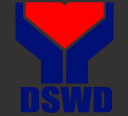
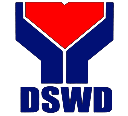
fix(polish): browser check fixes for login, calendar, footer and focus

diff --git a/client/src/features/students/components/StudentExtraSections.tsx b/client/src/features/students/components/StudentExtraSections.tsx
@@ -214,7 +214,7 @@ export function BirthRegistered({
 }
 
 const FAMILY_COLUMNS =
-  "xl:grid-cols-[1.5rem_1.6fr_1fr_1fr_0.7fr_1fr_1.1fr_1fr_1fr]";
+  "2xl:grid-cols-[1.5rem_1.5fr_1.15fr_1fr_0.85fr_1fr_1.1fr_1fr_1fr]";
 
 export function FamilyTable({
   draft,
@@ -246,10 +246,10 @@ export function FamilyTable({
   const textColumns = [["relationship", "c. Relationship"]] as const;
 
   return (
-    <div className="flex flex-col gap-3 xl:gap-2">
+    <div className="flex flex-col gap-3 2xl:gap-2">
       <div
         aria-hidden="true"
-        className={`hidden gap-2 border-b border-border-subtle pb-2 text-12 xl:grid ${FAMILY_COLUMNS}`}
+        className={`hidden gap-2 border-b border-border-subtle pb-2 text-12 2xl:grid ${FAMILY_COLUMNS}`}
       >
         {headers.map((header) => (
           <span key={header}>{header}</span>
@@ -260,13 +260,13 @@ export function FamilyTable({
         return (
           <fieldset
             key={number}
-            className={`grid gap-2 rounded-control border border-border-subtle p-3 sm:grid-cols-2 xl:items-center xl:rounded-none xl:border-0 xl:p-0 ${FAMILY_COLUMNS}`}
+            className={`grid gap-2 rounded-control border border-border-subtle p-3 sm:grid-cols-2 xl:grid-cols-4 2xl:items-center 2xl:rounded-none 2xl:border-0 2xl:p-0 ${FAMILY_COLUMNS}`}
           >
             <legend className="sr-only">Family member {number}</legend>
             <span aria-hidden="true" className="text-13 font-medium">
               {number}.
             </span>
-            <FormField label="11a. Full Name" hideLabelFrom="xl">
+            <FormField label="11a. Full Name" hideLabelFrom="2xl">
               {(field) => (
                 <Input
                   {...field}
@@ -277,7 +277,7 @@ export function FamilyTable({
                 />
               )}
             </FormField>
-            <FormField label="b. Birthday" hideLabelFrom="xl">
+            <FormField label="b. Birthday" hideLabelFrom="2xl">
               {(field) => (
                 <DateInput
                   {...field}
@@ -289,7 +289,7 @@ export function FamilyTable({
               )}
             </FormField>
             {textColumns.map(([key, label]) => (
-              <FormField key={key} label={label} hideLabelFrom="xl">
+              <FormField key={key} label={label} hideLabelFrom="2xl">
                 {(field) => (
                   <Input
                     {...field}
@@ -301,7 +301,7 @@ export function FamilyTable({
                 )}
               </FormField>
             ))}
-            <FormField label="d. Sex" hideLabelFrom="xl">
+            <FormField label="d. Sex" hideLabelFrom="2xl">
               {(field) => (
                 <Select
                   {...field}
@@ -323,7 +323,7 @@ export function FamilyTable({
                 ["occupation", "g. Occupation"],
               ] as const
             ).map(([key, label]) => (
-              <FormField key={key} label={label} hideLabelFrom="xl">
+              <FormField key={key} label={label} hideLabelFrom="2xl">
                 {(field) => (
                   <Input
                     {...field}
@@ -335,7 +335,7 @@ export function FamilyTable({
                 )}
               </FormField>
             ))}
-            <FormField label="h. Monthly Income" hideLabelFrom="xl">
+            <FormField label="h. Monthly Income" hideLabelFrom="2xl">
               {(field) => (
                 <Input
                   {...field}

diff --git a/client/src/app/layouts/AppShell.tsx b/client/src/app/layouts/AppShell.tsx
@@ -55,7 +55,7 @@ function SidebarBrand({ role }: { role: Role }) {
     );
   }
   return (
-    <div className="flex shrink-0 items-center gap-4 border-b border-primary px-6 py-5 text-nav-text">
+    <div className="flex shrink-0 items-center gap-3 border-b border-primary py-5 pr-1 pl-6 text-nav-text">
       <img
         src={emblem}
         alt={EMBLEM_ALT}
@@ -65,15 +65,19 @@ function SidebarBrand({ role }: { role: Role }) {
         <p className="text-20 tracking-label">
           <span className="text-primary">RIC</span>Portal
         </p>
-        <p className="text-12 tracking-label">Rural Improvement Club</p>
-        <p className="text-12 tracking-label">Libmanan, Camarines Sur</p>
+        <p className="text-12 tracking-label whitespace-nowrap">
+          Rural Improvement Club
+        </p>
+        <p className="text-12 tracking-label whitespace-nowrap">
+          Libmanan, Camarines Sur
+        </p>
       </div>
     </div>
   );
 }
 
 function itemClass(role: Role, isActive: boolean): string {
-  const base = `flex h-[53px] shrink-0 items-center gap-3 rounded-card px-3 text-left tracking-label ${NAV_FOCUS}`;
+  const base = `flex h-[53px] shrink-0 items-center gap-3 rounded-card px-3 text-left tracking-label whitespace-nowrap ${NAV_FOCUS}`;
   const weight =
     role === "ADMIN" ? "text-15 font-medium" : "text-15 font-light";
   if (!isActive) {
@@ -81,7 +85,7 @@ function itemClass(role: Role, isActive: boolean): string {
   }
   return role === "ADMIN"
     ? `${base} ${weight} bg-primary text-primary-contrast`
-    : `${base} ${weight} border-l-8 border-primary bg-nav-selected text-nav-selected-text`;
+    : `${base} ${weight} border-l-8 border-primary bg-nav-selected pl-1 text-nav-selected-text`;
 }
 
 function SidebarContent({

diff --git a/client/src/components/ui/overlays.test.tsx b/client/src/components/ui/overlays.test.tsx
@@ -16,6 +16,30 @@ describe.each([
   ["Modal", Modal],
   ["Drawer", Drawer],
 ] as const)("%s", (_name, Overlay) => {
+  // Most screens remove the overlay instead of closing it, so the browser never
+  // restores focus by itself (found in a real browser, polish F6).
+  it("gives focus back to the opener when it is removed while open", () => {
+    function Screen({ showing }: { showing: boolean }) {
+      return (
+        <>
+          <button type="button">Opener</button>
+          {showing && (
+            <Overlay open onClose={() => undefined} title="Add a student">
+              <button type="button">Inside</button>
+            </Overlay>
+          )}
+        </>
+      );
+    }
+    const { rerender } = render(<Screen showing={false} />);
+    const opener = screen.getByRole("button", { name: "Opener" });
+    opener.focus();
+    rerender(<Screen showing />);
+    screen.getByRole("button", { name: "Inside" }).focus();
+    rerender(<Screen showing={false} />);
+    expect(document.activeElement).toBe(opener);
+  });
+
   it("is a native dialog that opens and closes with its prop", () => {
     const { container, rerender } = render(
       <Overlay open={false} onClose={() => undefined} title="Add a student">

diff --git a/client/src/components/ui/useNativeDialog.ts b/client/src/components/ui/useNativeDialog.ts
@@ -5,6 +5,7 @@ import { useEffect, useRef } from "react";
 // event; it is prevented so React state stays in control, and calls onClose.
 export function useNativeDialog(open: boolean, onClose: () => void) {
   const ref = useRef<HTMLDialogElement>(null);
+  const opener = useRef<HTMLElement | null>(null);
 
   useEffect(() => {
     const dialog = ref.current;
@@ -12,11 +13,26 @@ export function useNativeDialog(open: boolean, onClose: () => void) {
       return;
     }
     if (open && !dialog.hasAttribute("open")) {
+      opener.current =
+        document.activeElement instanceof HTMLElement
+          ? document.activeElement
+          : null;
       dialog.showModal();
     } else if (!open && dialog.hasAttribute("open")) {
       dialog.close();
     }
   }, [open]);
+
+  // Most screens remove the dialog instead of closing it. The browser restores
+  // focus only on close(), so a dialog removed while open has to do it here.
+  useEffect(() => {
+    const dialog = ref.current;
+    return () => {
+      if (dialog?.hasAttribute("open") === true) {
+        opener.current?.focus();
+      }
+    };
+  }, []);
 
   useEffect(() => {
     const dialog = ref.current;

diff --git a/client/src/components/ui/FormField.tsx b/client/src/components/ui/FormField.tsx
@@ -15,8 +15,8 @@ type FormFieldProps = {
   required?: boolean;
   // Keeps the label for screen readers when the row already shows its meaning.
   hideLabel?: boolean;
-  // The same, from 1280 px: a table row with a header above it (cards before that).
-  hideLabelFrom?: "xl";
+  // The same, from 1536 px: a table row with a header above it (cards before that).
+  hideLabelFrom?: "2xl";
   children: (field: FieldControlProps) => ReactNode;
 };
 
@@ -60,7 +60,7 @@ export function FormField({
         className={
           hideLabel
             ? "sr-only"
-            : `text-15 font-medium text-text ${hideLabelFrom === "xl" ? "xl:sr-only" : ""}`
+            : `text-15 font-medium text-text ${hideLabelFrom === "2xl" ? "2xl:sr-only" : ""}`
         }
       >
         {label}

diff --git a/client/src/styles/index.css b/client/src/styles/index.css
@@ -36,7 +36,7 @@
   color: var(--color-text);
 }
 
-.ric-calendar .fc-day-today {
+.ric-calendar .fc .fc-daygrid-day.fc-day-today {
   background-color: var(--ric-calendar-fill);
 }
 
@@ -46,15 +46,22 @@
 }
 
 /* The whole cell is the button, so a day is easy to tap. */
-.ric-calendar .fc-daygrid-day-top {
+.ric-calendar .fc .fc-daygrid-day-top {
   position: static;
   display: block;
+}
+
+.ric-calendar .fc .fc-daygrid-day-number {
+  position: static;
+  padding: 0;
 }
 
 .ric-day-button {
   position: absolute;
   inset: 0;
-  display: block;
+  display: flex;
+  align-items: flex-start;
+  justify-content: flex-start;
   padding: 2px 4px;
   text-align: left;
   color: var(--color-text);

diff --git a/client/src/components/ui/Button.tsx b/client/src/components/ui/Button.tsx
@@ -123,7 +123,7 @@ export function IconButton({
       <span
         data-icon-label
         aria-hidden="true"
-        className="pointer-events-none invisible absolute top-full left-1/2 -translate-x-1/2 bg-surface px-1 text-15 tracking-label whitespace-nowrap text-text group-hover:visible group-focus-visible:visible"
+        className="pointer-events-none invisible absolute max-md:hidden top-full left-1/2 -translate-x-1/2 bg-surface px-1 text-15 tracking-label whitespace-nowrap text-text group-hover:visible group-focus-visible:visible"
       >
         {label}
       </span>

diff --git a/client/src/components/ui/Button.test.tsx b/client/src/components/ui/Button.test.tsx
@@ -141,6 +141,8 @@ describe("IconButton", () => {
     expect(visible?.getAttribute("aria-hidden")).toBe("true");
     expect(visible?.classList).toContain("invisible");
     expect(visible?.classList).toContain("group-hover:visible");
+    // It must not push the page sideways on a phone (found in the browser, F6).
+    expect(visible?.classList).toContain("max-md:hidden");
     expect(visible?.classList).toContain("group-focus-visible:visible");
   });
 

diff --git a/client/src/features/dashboard/pages/AdminDashboardPage.tsx b/client/src/features/dashboard/pages/AdminDashboardPage.tsx
@@ -112,7 +112,7 @@ export function AdminDashboardPage() {
         query={summary}
         errorTitle="Could not load the dashboard counts."
       >
-        <div className="grid gap-4 sm:grid-cols-2 lg:grid-cols-3 2xl:grid-cols-5">
+        <div className="grid gap-4 sm:grid-cols-2 lg:grid-cols-3 xl:grid-cols-5">
           <CountCard
             icon="users"
             value={counts?.activeTeachers}

diff --git a/docs/POLISH_LOG.md b/docs/POLISH_LOG.md
@@ -151,8 +151,49 @@ Summary (F6, 2026-11-07):
 - The smoke test used the demo data already in the local database. **The new seed was not run on it**, because it clears Sibujo's data. The seed itself is tested on the test database. Run `npm run db:seed:demo` on demo morning.
 - The server logs two notices from the PDF library when a PDF is made: no URL or local access policy is defined. This was not looked into. BACKLOG item for hardening.
 - Docs: DEMO_SCRIPT has the new pages, the Assign Parents flow, the Parent flow, the default password reset and a short visual checklist. DEC-042.
-- **Still not done: the plan's width-by-width check and Figma comparison in a browser.** Playwright did not connect during F1 to F6. It connected at the start of this final session, but this session's instructions were to start nothing new, so no page was opened. docs/DEMO_SCRIPT.md has the checklist.
+- The browser check was not part of the tag v0.9.1-demo. It ran afterwards; see below.
 
 ## Polish summary
 
 F1 to F6 done on branch demo-polish, tag v0.9.1-demo, not pushed. 31 of 120 Figma calls used. Decisions DEC-037 to DEC-042. Nothing was started on Objective 3 beyond the placeholders D10 asks for.
+
+## Browser check after the tag (2026-11-07)
+
+Asked for by the Developer. Playwright against the built app on port 3000, with the demo data already in the local database. Nothing was saved: no write requests other than login and logout were sent.
+
+Audit: 18 pages across the three roles at 360, 390, 768, 1024, 1280, 1440 and 1920 px, measuring sideways page scroll, tap targets under 44 px up to 768 px, and page errors. 31 scripted interactions.
+
+Bugs found that the tests could not see, all fixed:
+
+| Bug | Cause | Fix |
+| --- | --- | --- |
+| Login page dark gray, with unreadable text | The Figma export of the waves had an opaque background | Background removed. In F1 the asset was viewed and the dark color was wrongly taken for how transparency displays |
+| Dark boxes behind the footer logos | Same, on three logos | Background removed |
+| Page scrolled 68 px sideways on Enrolled Students at 360 and 390 px | The hidden hover label of the row icons stuck out | Label removed under 768 px |
+| Day button only 8 px wide, so cells were hard to tap and the selection ring was tiny | FullCalendar's number link is position relative | Number link made static; the button fills the cell (154x90 on desktop, 48x61 on a 390 px phone) |
+| Today not filled | FullCalendar's rule won | More specific rule |
+| Focus lost after closing a modal or drawer | Screens remove the dialog without closing it | Restored in useNativeDialog; test seen failing first |
+| Organization name and ENROLLED STUDENTS wrapped in the sidebar | Too little room | Spacing changed, no wrapping |
+| MM/DD/YYYY clipped in the family table at 1440 px | Nine columns | Cards until 1536 px |
+| Dashboard cards wrapped to two rows | Breakpoint | One row from 1280 px |
+
+Also a bug in my own first fix: the day number sat on top of the dish, because a button centers its content. Fixed and rechecked.
+
+Confirmed working in the browser: LOGOUT stays at the bottom while scrolling, and the menu scrolls inside the sidebar on a short window; the phone menu opens, and closes on a choice, Escape or a backdrop tap; the Assign Parents modal (four dropdowns, no parent offered twice, Step 2, CANCEL, Escape) fits a phone and SAVE can be reached; the masked date field refuses 02/30/2020 and accepts 02/29/2024; a Parent sees check marks on their own days and "not assigned" on others, with no budget text; clicking a cell or a dish, and Enter on a dish, select the day.
+
+Results of the final run: no page scroll and no small tap target in the audit of 126 views. One thing to know about that run: it hit the server's limit of 5000 requests in 15 minutes on its last view, because every image counts. Only Parent Profile at 1440 and 1920 px were affected. They were rechecked and pass. After the later fixes, Calendar, Enrolled Students and the student form were audited again at all seven widths, with no findings and no 429. A demo will not come near this limit.
+
+The 16 px gap at the calendar's right edge in the first screenshots was an artifact of full-page capture, where the scrollbar goes away. The grid is correct in the real viewport.
+
+Checks after the fixes: typecheck and lint clean, client project 398 of 398 on one worker, build succeeds. The unit and db projects were not rerun, because only client files changed since they passed.
+
+Not checked:
+
+- Saving in the browser: SAVE in the modal, and a Parent's add, edit and delete. The API and component tests cover these. The check left the demo data untouched on purpose.
+- Pages with report data. The local database has no reports, so Reports, Report Status and Admin Feedback were seen empty, and the report detail page was not seen.
+- The new demo seed on the local database.
+- Figma was compared by eye from screenshots, not measured.
+- Real phones, and browsers other than Chromium.
+- The PDFs next to the official forms.
+
+Open: port 3000 was still held by a server after the last `npm start` was stopped, probably that session's node process surviving. A check that would identify it was refused by the permission system, so it was left running. It serves the current build. Close it, or restart the laptop, before `npm start` on demo day.

diff --git a/docs/DEMO_SCRIPT.md b/docs/DEMO_SCRIPT.md
@@ -92,16 +92,13 @@ Cut or simplified: see docs/SPRINT_SHORTCUTS.md (Progress tab, Admin students-by
 
 ## Visual checklist before the demo
 
-**No page of this polish has been opened in a real browser yet.** The automated tests and the smoke test cover the API, component logic and source patterns, not how the pages look. Use the browser's device toolbar at 1440x900 and 390x844.
+Layout at every width from 360 to 1920 px, the calendar, the sidebar, the phone menu and the Assign Parents modal were checked in a real browser (Chromium) with the older demo data; see docs/POLISH_LOG.md. These remain for you:
 
-- [ ] Run `npm run db:seed:demo` first. The smoke test ran on the older demo data, so the new seed (parent4, the week team, rows by both roles) has run only on the test database.
-- [ ] **Calendar** (highest risk, tests cannot render it): month title and arrows; tapping a cell and a dish both select the day; today filled; selected day ringed; dots on a phone. Figma 166:1553, 393:1133.
-- [ ] **Sidebar**: LOGOUT stays at the bottom while a long page scrolls. Under 1024 px the top bar and the menu drawer replace it.
-- [ ] **No sideways page scroll** on any page at 360 px.
-- [ ] **Login**: photo, emblem and waves. The photo is exported small and may look soft. Figma 241:1732, 393:1102.
-- [ ] **Student form** at 1280 px: the family table is the tightest part. Figma 258:5447.
-- [ ] **Assign Parents** on a phone: the cards fit and SAVE can be reached.
-- [ ] **Dialogs**: Escape closes them and focus returns to the button.
+- [ ] Run `npm run db:seed:demo` first. The new seed (parent4, the week team, rows by both roles) has run only on the test database.
+- [ ] If `npm start` says port 3000 is in use, an earlier server is still running. Close it first, or restart the laptop.
+- [ ] Walk the click path once, with real saves: **SAVE** in Assign Parents, a Parent's add, edit and delete, and Lock day. The browser check saved nothing.
+- [ ] After submitting a report, look at the pages that were empty in the check: **REPORTS**, the report with its Stamp, **REPORT STATUS** and **ADMIN FEEDBACK**.
+- [ ] Log in on a real phone if you have one on the same network.
+- [ ] Compare the login photo on the demo screen. It is exported small to stay under 300 KB and may look soft.
 - [ ] **PDFs** next to the photos of the official forms.
-
-Other frames to compare if time allows: Teacher Home 175:1023, Enrolled Students 78:260, Admin Dashboard 267:9689, RIC Teachers 267:9862, Reports 268:12661, Report Status 78:284, Admin Feedback 78:276, Profile 88:695, footer 268:10479.
+- [ ] Two browsers on one day: Teacher and Parent editing the same row shows "Updated by someone else. Your change was not saved."

diff --git a/docs/DECISIONS.md b/docs/DECISIONS.md
@@ -499,3 +499,14 @@ Context: the final full test run of F6 was stopped by the system because memory 
 Decision:
 - Final runs on this laptop: `npx vitest run --project unit --maxWorkers=1`, then `db`, then `client`, one after another. All three finished on one worker.
 - A CLI flag for these runs only. `vitest.config.mjs` keeps `maxWorkers: 2` (DEC-035), so nothing else changes. `npm run test` still runs all projects together, about 10 minutes on two workers, and is what memory stopped.
+
+## DEC-043: Fixes from the browser check after v0.9.1-demo
+
+Context: the Developer asked for the Playwright check on 2026-11-07, after the tag. It found problems the tests could not see.
+Decision:
+- The Figma exports of the waves and three footer logos had an opaque rgb(51,49,49) background baked in. It was removed from the client's own images in a browser canvas, with no new package. The waves keep the line color and use eight opacity levels to stay under 300 KB (164 KB). The originals stay in git history. If the client can supply transparent originals, they should replace these.
+- FullCalendar's rules are as specific as ours and load later, so the calendar's overrides carry one more class.
+- The icon button's hidden hover label is removed under 768 px, where it pushed the page sideways and there is no hover. The button keeps its aria-label.
+- The family table becomes a table from 1536 px (cards before that), because it clipped MM/DD/YYYY at 1440 px.
+- The five dashboard cards share one row from 1280 px, as Figma shows.
+- useNativeDialog restores focus when a dialog is removed while open, because the browser does this only on close().
